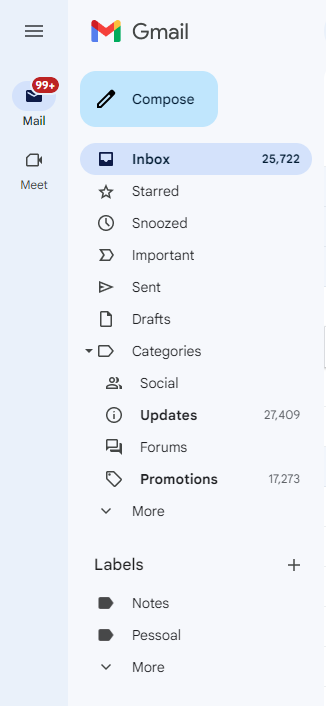
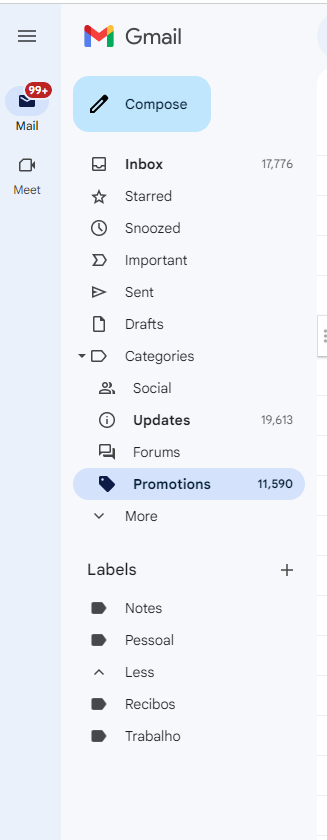
adjust on code and execution

diff --git a/README.md b/README.md
@@ -3,10 +3,22 @@ Project to automatically delete Spam emails in Gmail
 
 In order to run this program, first execute the API allowance Step as indicated here: https://developers.google.com/gmail/api/quickstart/python
 
-Attention: Thhis scrip will delete all the emails on the Categories SPAM, SOCIAL, FORUMS , UPDATES, PROMOTIONS and TRASH.
+Attention: This script will delete all the emails on the Categories SPAM, SOCIAL, FORUMS , UPDATES, PROMOTIONS and TRASH.
 
 Also, it will delete all the emails Before and After a given date from the MAIN folder.
 
+<span style="color: red; font-weight: bold;">They will be deleted FOREVER!</span>
+
 So Use with Caution at your own risk!!!
 
-![Alt text](./ScreenExample.PNG "View Example of the Script after succesfully running")
+<span style="color: blue; font-weight: bold;">GMAIL View Example of the Inbox Before running the Process</span>
+
+![Alt text](./beforeCleaning.PNG "View Example of the Inbox Before running the Process")
+
+<span style="color: blue; font-weight: bold;">View Example of the Process running</span>
+
+![Alt text](./duringCleaning.PNG "View Example of the Process running")
+
+<span style="color: blue; font-weight: bold;">View Example of the Inbox After running the Process</span>
+
+![Alt text](./afterCleaning.PNG "View Example of the Inbox After running the Process")
